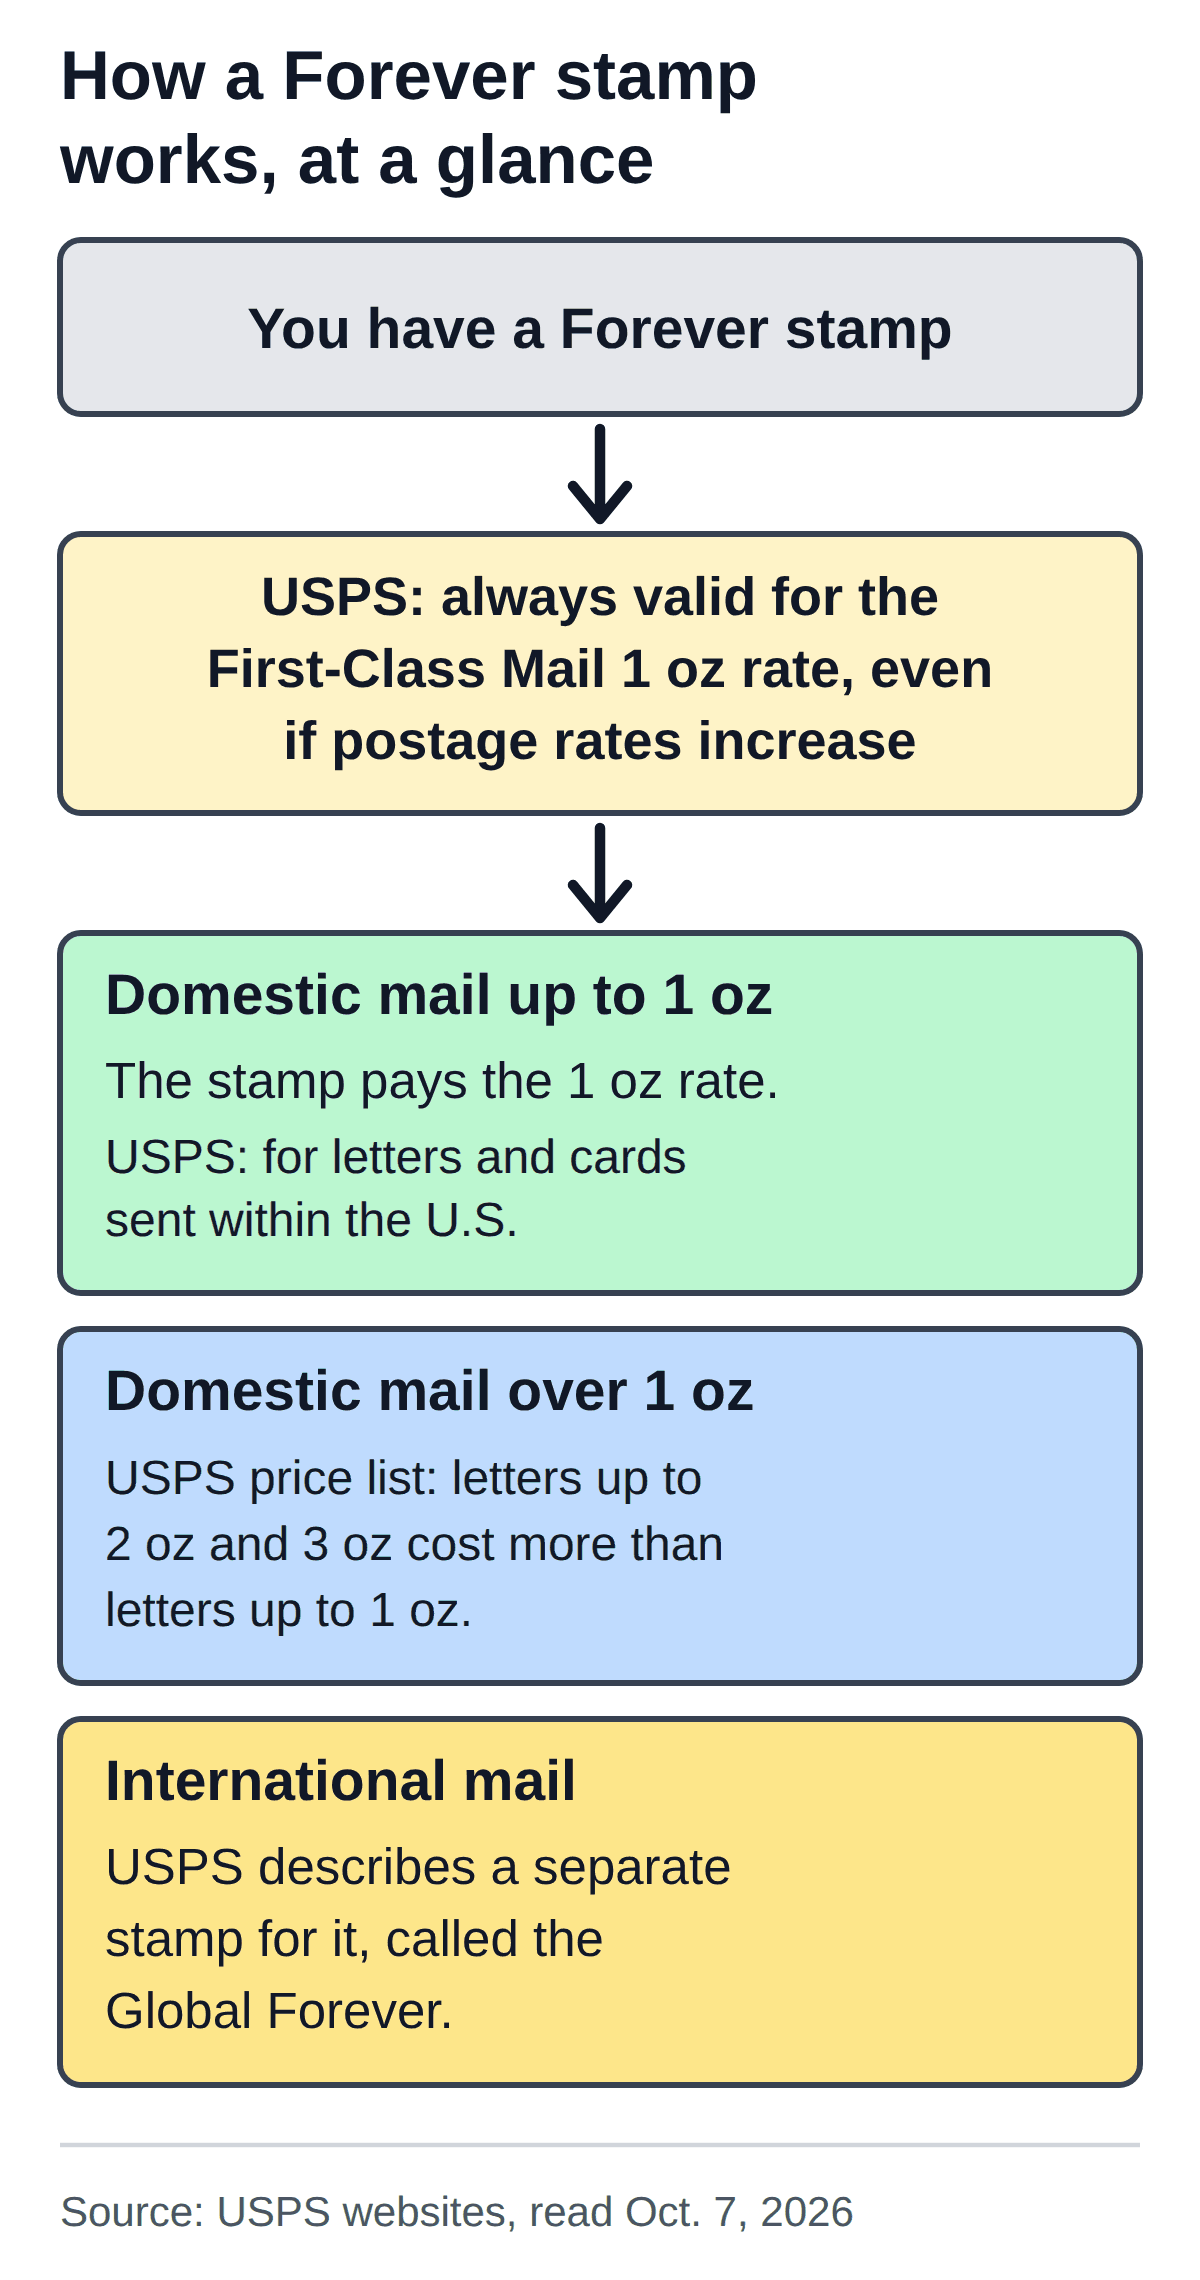
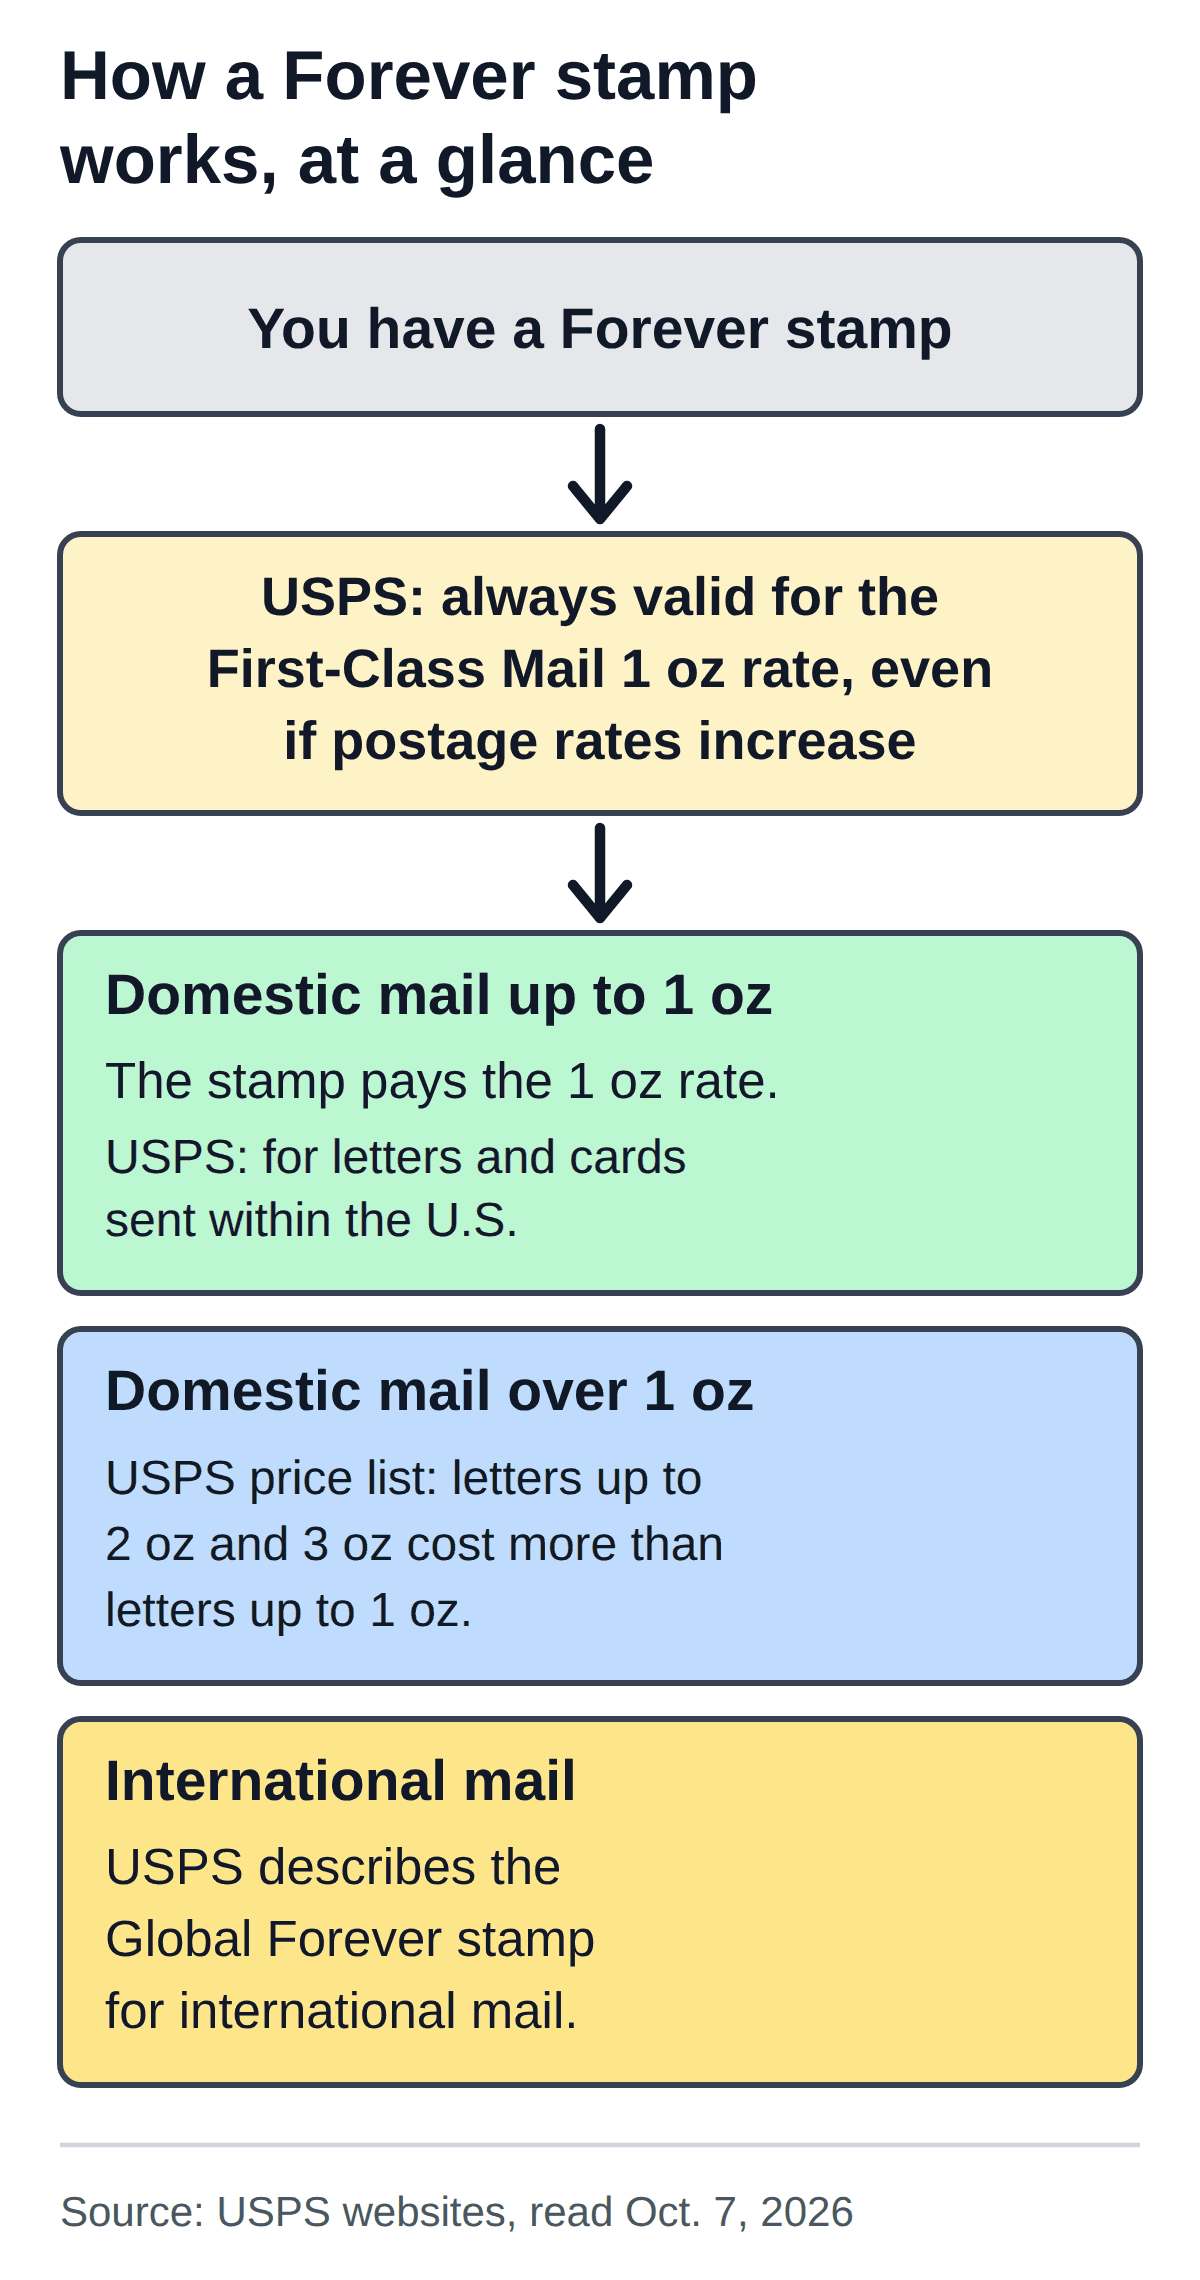
assets: forever-stamp diagram now says 'Global Forever stamp' (Gate 2 fix, correct file)

Changed region(s): [[0.0925, 0.8096, 0.6167, 0.9031]]

diff --git a/editorial/qa/forever-stamp-how-it-works.md b/editorial/qa/forever-stamp-how-it-works.md
@@ -61,7 +61,7 @@ Mandatory re-check of S1–S4 right before the user approves moving the article 
 ChatGPT reviewed commit `e0aee2b` on 2026-10-07. Title kept as is (57 characters, shows search intent and the limit). Body, meta description, structure and diagram readability passed. One fix was requested, in three places, because USPS does not use the word "separate":
 
 1. Body: "a separate stamp, the Global Forever" became "the Global Forever stamp".
-2. Diagram: "USPS describes a separate stamp for it, called the Global Forever." became "USPS describes the Global Forever stamp for international mail." (the new PNG's pixel hash was checked on the device).
+2. Diagram: "USPS describes a separate stamp for it, called the Global Forever." became "USPS describes the Global Forever stamp for international mail." (the new PNG was checked on the device by pixel hash; the first write came through stale, so it was re-written and checked again).
 3. Alt text: "a separate stamp called the Global Forever" became "the Global Forever stamp".
 
 ChatGPT said Gate 2 counts as PASS once these three changes are made. Done in the commit that follows `e0aee2b`. The word "separate" no longer appears in the article, the diagram or the alt text.
